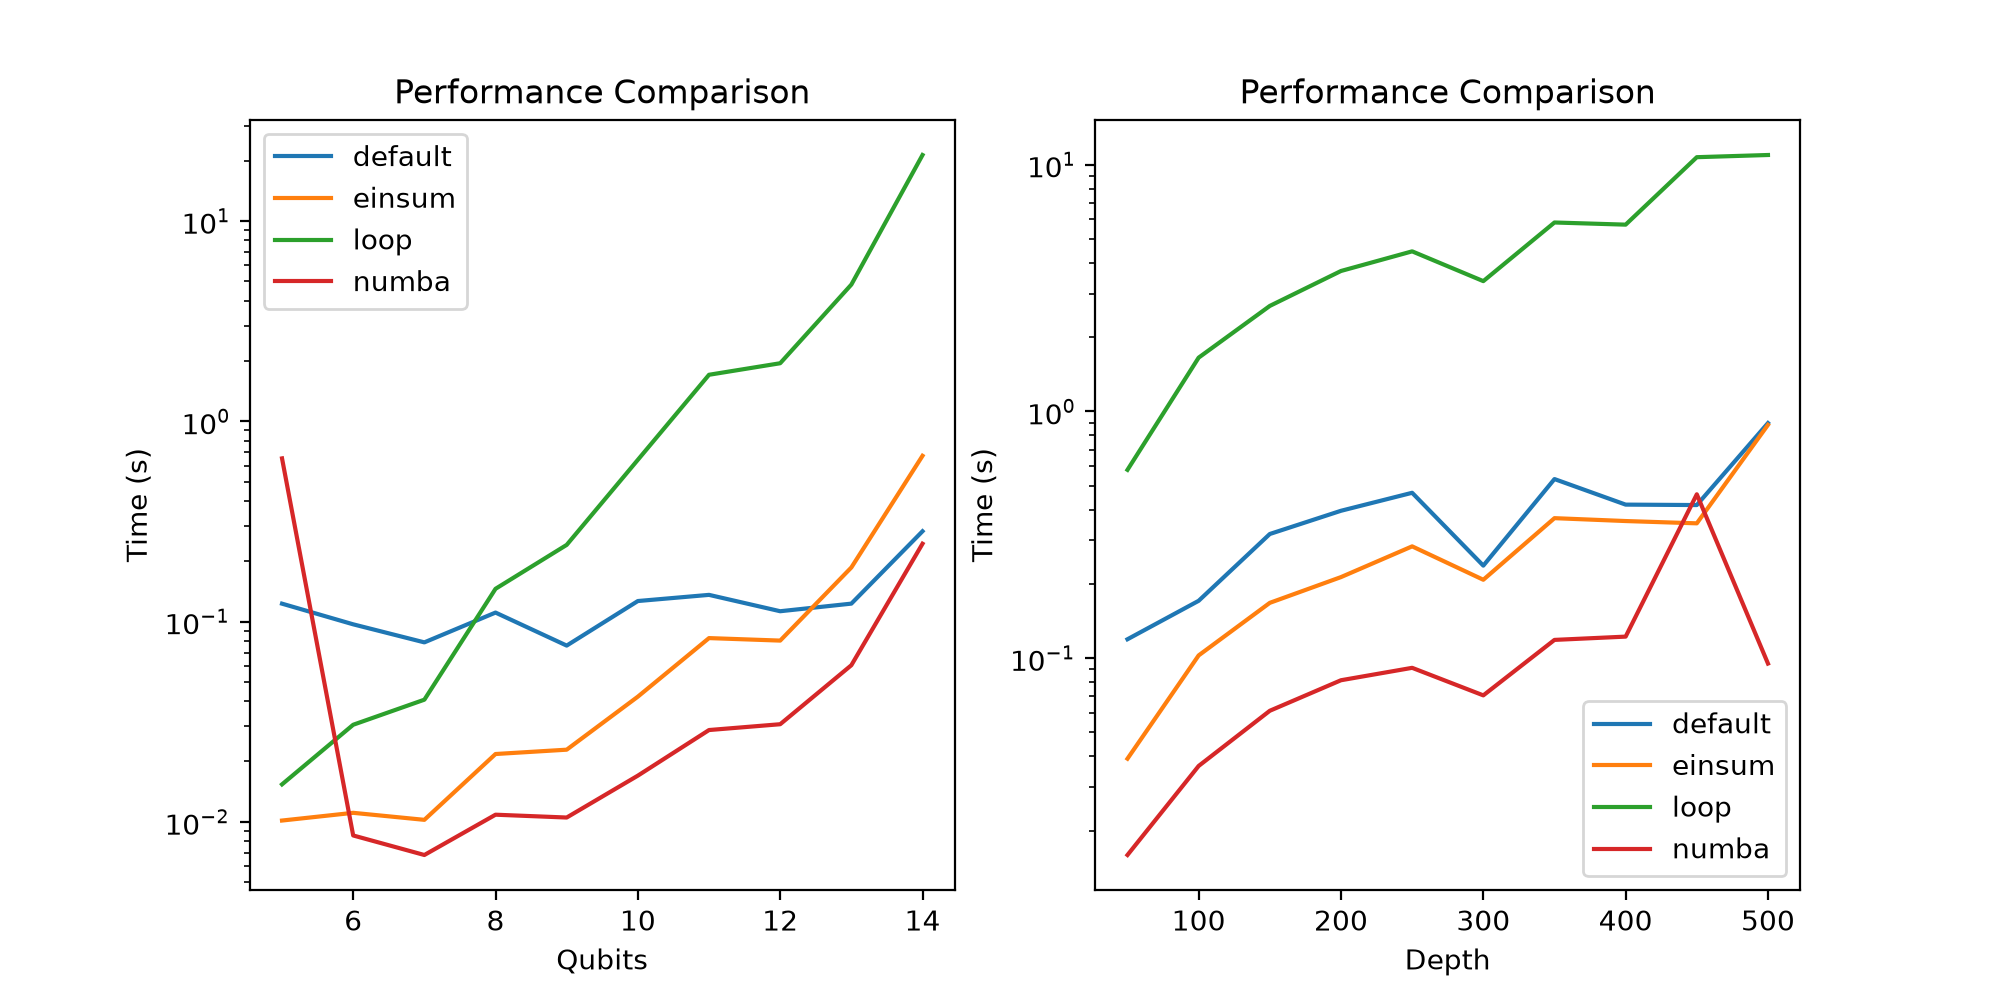
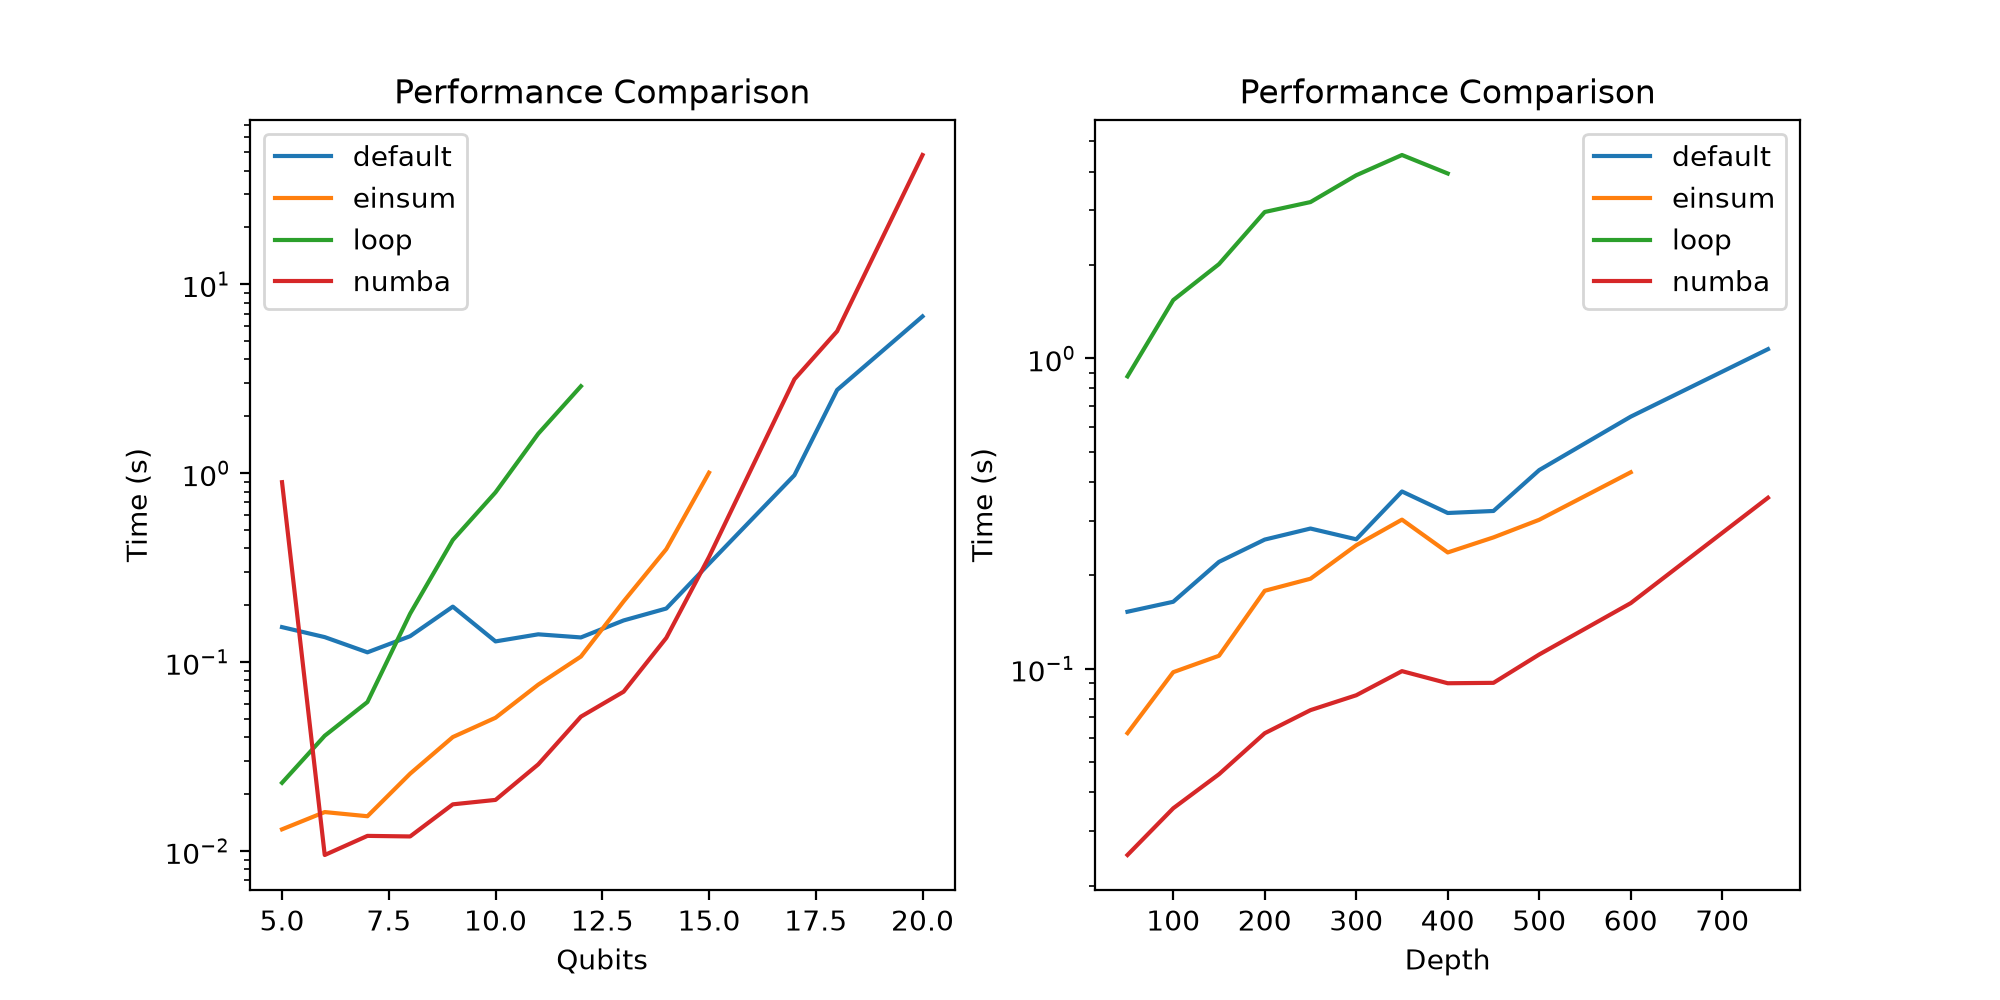
update performanceplots

diff --git a/playground/benchmark.py b/playground/benchmark.py
@@ -20,8 +20,8 @@ data_depths: dict[str, list[float]] = {
     "loop": [],
     "numba": [],
 }
-qubits_iterate = [5, 6, 7, 8, 9, 10, 11, 12, 13, 14]
-depths_iterate = [50, 100, 150, 200, 250, 300, 350, 400, 450, 500]
+qubits_iterate = [5, 6, 7, 8, 9, 10, 11, 12, 13, 14, 15, 17, 18, 20]
+depths_iterate = [50, 100, 150, 200, 250, 300, 350, 400, 450, 500, 600, 750]
 
 for qubits in qubits_iterate:
     print(f"Simulating circuit with {qubits} qubits and depth 50")
@@ -29,6 +29,10 @@ for qubits in qubits_iterate:
     circuit.draw()
     config = qs.Configuration(number_of_shots=2**16)
     for method in ["default", "einsum", "loop", "numba"]:
+        if method == "loop" and qubits >= 13:
+            continue
+        if method == "einsum" and qubits >= 17:
+            continue
         config.method = method
         start = time.time()
         qs.simulate(circuit.copy(), config)
@@ -42,6 +46,10 @@ for depth in depths_iterate:
     circuit.draw()
     config = qs.Configuration(number_of_shots=2**16)
     for method in ["default", "einsum", "loop", "numba"]:
+        if method == "einsum" and depth > 600:
+            continue
+        if method == "loop" and depth > 400:
+            continue
         config.method = method
         start = time.time()
         qs.simulate(circuit.copy(), config)
@@ -52,8 +60,8 @@ for depth in depths_iterate:
 plt.figure(figsize=(10, 5))
 plt.subplot(1, 2, 1)
 plt.plot(qubits_iterate, data_qubits["default"], label="default")
-plt.plot(qubits_iterate, data_qubits["einsum"], label="einsum")
-plt.plot(qubits_iterate, data_qubits["loop"], label="loop")
+plt.plot([q for q in qubits_iterate if q < 17], data_qubits["einsum"], label="einsum")
+plt.plot([q for q in qubits_iterate if q < 13], data_qubits["loop"], label="loop")
 plt.plot(qubits_iterate, data_qubits["numba"], label="numba")
 plt.xlabel("Qubits")
 plt.ylabel("Time (s)")
@@ -63,8 +71,8 @@ plt.legend()
 
 plt.subplot(1, 2, 2)
 plt.plot(depths_iterate, data_depths["default"], label="default")
-plt.plot(depths_iterate, data_depths["einsum"], label="einsum")
-plt.plot(depths_iterate, data_depths["loop"], label="loop")
+plt.plot([d for d in depths_iterate if d <= 600], data_depths["einsum"], label="einsum")
+plt.plot([d for d in depths_iterate if d <= 400], data_depths["loop"], label="loop")
 plt.plot(depths_iterate, data_depths["numba"], label="numba")
 plt.xlabel("Depth")
 plt.ylabel("Time (s)")
